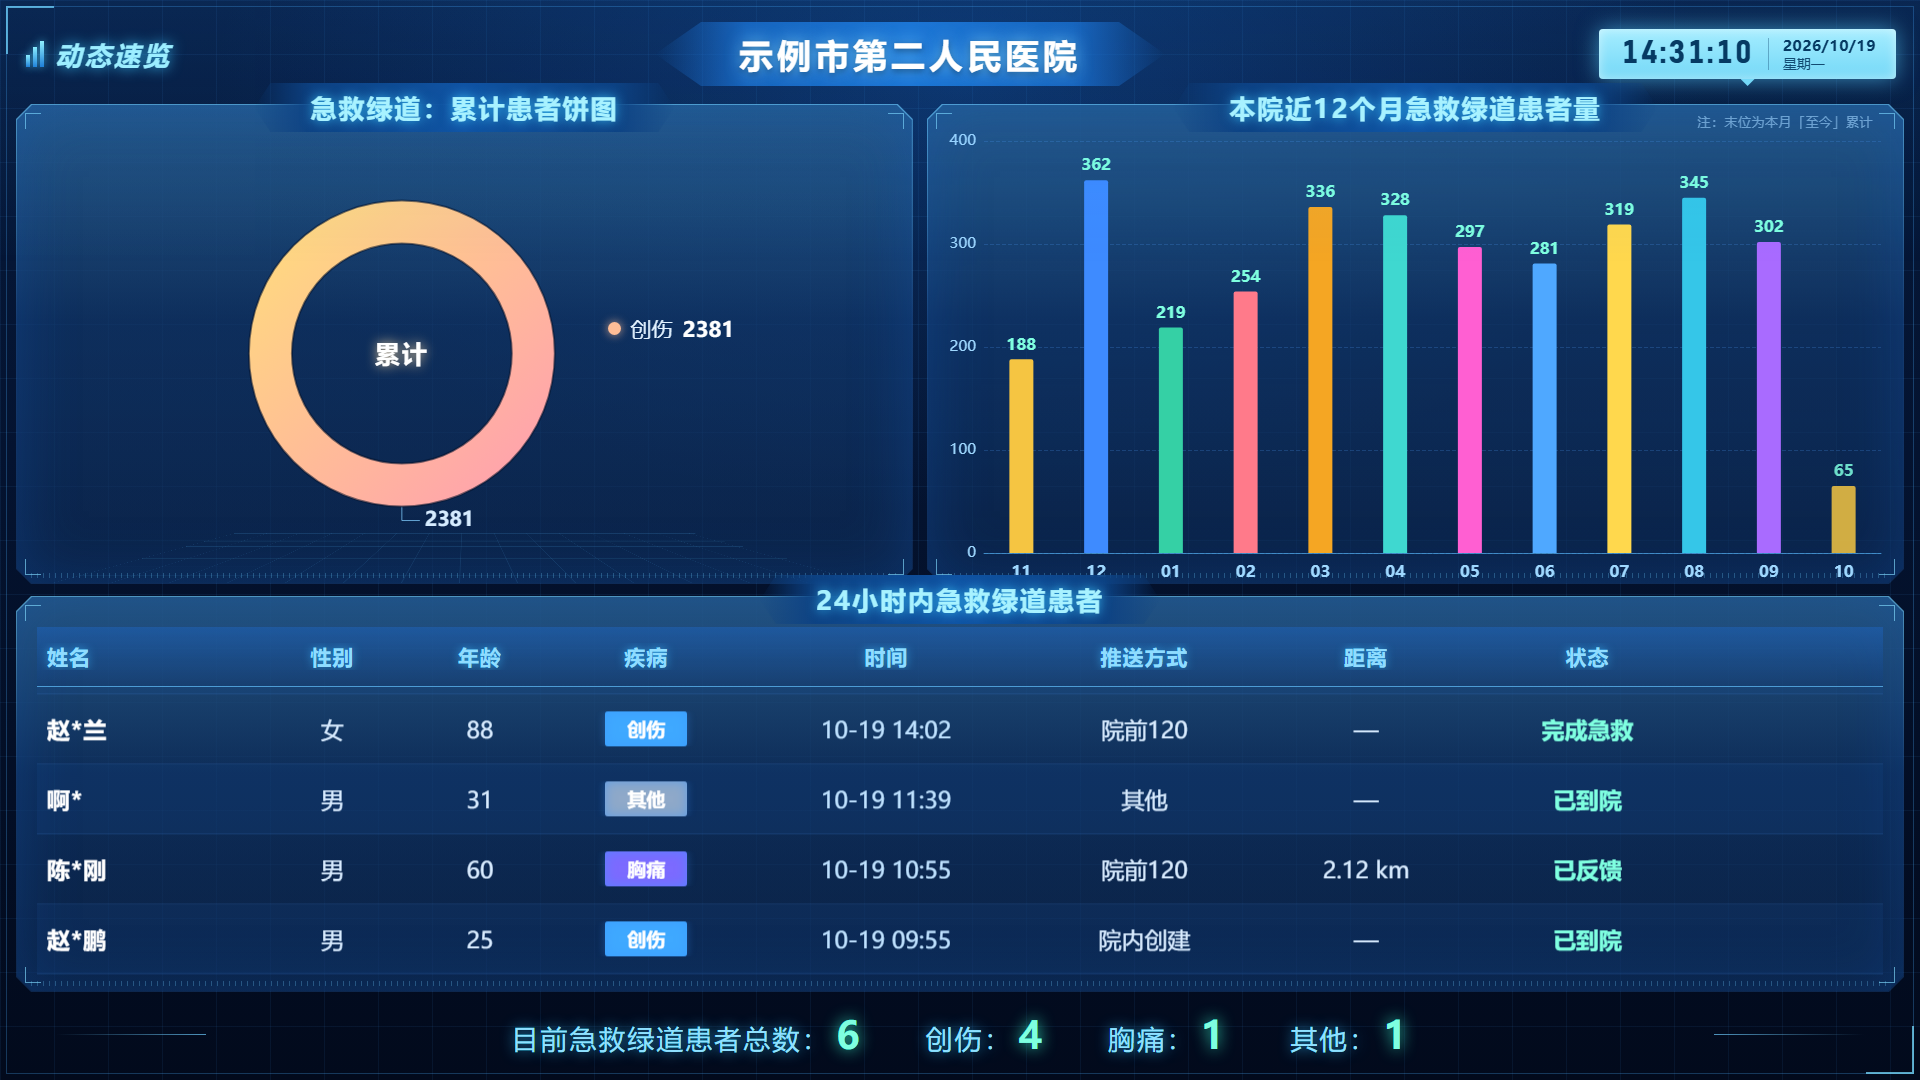
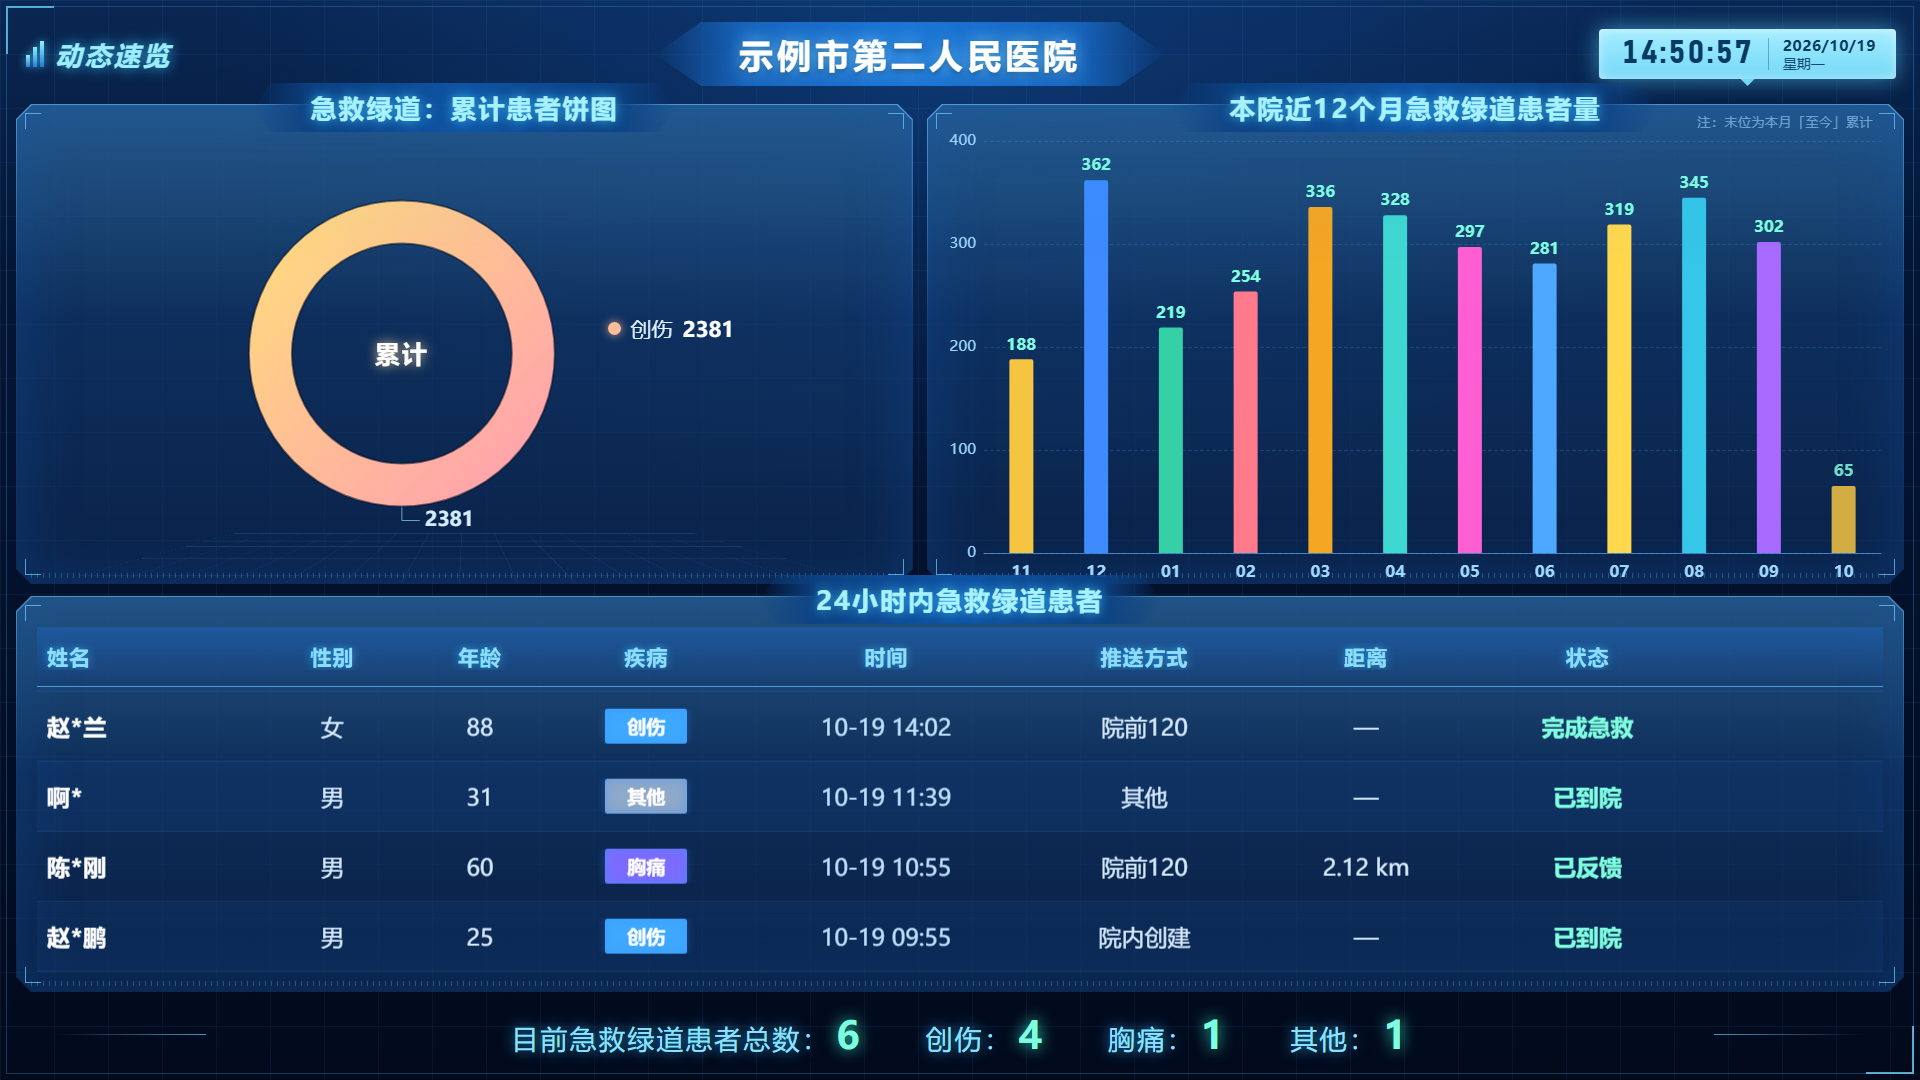
feat(patient): 患者管理加绿道号列，姓名/性别/年龄合并为患者列
按截图调整患者管理表格：
- 姓名列前新增「绿道号」（取该患者最近一条病例的编号，无病例显示 —）
- 姓名 + 性别 + 年龄合并为一列「患者」，呈现为 王*涛（男/40岁）
  姓名是指向该病例详情的链接，括号部分用次要色
- CSV 导出同步增加「绿道号」列（表头变为 10 列）

顺带修掉测试脚本的一个缺陷：
- verify-case 的病例导入会为每行新建患者，而病例删除不连带删患者，
  导致每次跑验收都会在患者管理里留下孤儿记录。
  现在会在测试开始记录最大患者 id，结束时把本次新建的患者一并清理。

验证：verify:api 34/34、verify:patient 25/25、verify:case 23/23、
verify:admin 18/18、verify:screen 7/7 全部通过；
数据回到 5091 病例 / 5090 患者，无测试残留。

diff --git a/apps/admin-web/src/views/patient/list.vue b/apps/admin-web/src/views/patient/list.vue
@@ -467,10 +467,15 @@ onMounted(() => {
         @selection-change="handleSelectionChange"
       >
         <el-table-column type="selection" width="46" />
-        <el-table-column prop="nameMasked" label="姓名" width="100" />
-        <el-table-column prop="genderName" label="性别" width="70" />
-        <el-table-column label="年龄" width="70">
-          <template #default="{ row }">{{ row.age === null ? '—' : row.age }}</template>
+        <el-table-column label="绿道号" width="150">
+          <template #default="{ row }">{{ row.lastCaseNo ?? '—' }}</template>
+        </el-table-column>
+        <el-table-column label="患者" min-width="150">
+          <template #default="{ row }">
+            <router-link v-if="row.lastCaseId" :to="`/cases/${row.lastCaseId}`">{{ row.nameMasked }}</router-link>
+            <span v-else>{{ row.nameMasked }}</span>
+            <span class="text-sub">（{{ row.genderName }}<span v-if="row.age !== null">/{{ row.age }}岁</span>）</span>
+          </template>
         </el-table-column>
         <el-table-column label="疾病" width="110">
           <template #default="{ row }">

diff --git a/apps/worker/src/routes/patients.ts b/apps/worker/src/routes/patients.ts
@@ -63,7 +63,7 @@ const PATIENT_COUNT_FROM = /* sql */ `
   LEFT JOIN green_channel_case c ON c.id = l.cid
 `
 
-const CSV_HEADER = ['姓名', '性别', '年龄', '疾病', '推送方式', '手机号', '状态', '最近就诊时间', '备注']
+const CSV_HEADER = ['绿道号', '姓名', '性别', '年龄', '疾病', '推送方式', '手机号', '状态', '最近就诊时间', '备注']
 
 function csvCell(value: unknown): string {
   const text = value === null || value === undefined ? '' : String(value)
@@ -143,7 +143,7 @@ export const patientRoutes: Route[] = [
       const lines = [CSV_HEADER.join(',')]
       for (const r of list) {
         lines.push(
-          [r.nameMasked, r.genderName, r.age ?? '', r.diseaseName, r.sourceTypeName, r.phoneMasked, r.statusName, r.lastVisitAt, r.remark]
+          [r.lastCaseNo, r.nameMasked, r.genderName, r.age ?? '', r.diseaseName, r.sourceTypeName, r.phoneMasked, r.statusName, r.lastVisitAt, r.remark]
             .map(csvCell)
             .join(','),
         )

diff --git a/apps/server/src/modules/patient/patient.controller.ts b/apps/server/src/modules/patient/patient.controller.ts
@@ -7,7 +7,7 @@ import { clientIp } from '../../common/validate'
 import { AuditService } from '../../core/audit.service'
 import { PatientService } from './patient.service'
 
-const CSV_HEADER = ['姓名', '性别', '年龄', '疾病', '推送方式', '手机号', '状态', '最近就诊时间', '备注']
+const CSV_HEADER = ['绿道号', '姓名', '性别', '年龄', '疾病', '推送方式', '手机号', '状态', '最近就诊时间', '备注']
 
 function csvCell(value: unknown): string {
   const text = value === null || value === undefined ? '' : String(value)
@@ -41,6 +41,7 @@ export class PatientController {
     for (const r of rows) {
       lines.push(
         [
+          r.lastCaseNo,
           r.nameMasked,
           r.genderName,
           r.age === null ? '' : `${r.age}`,
